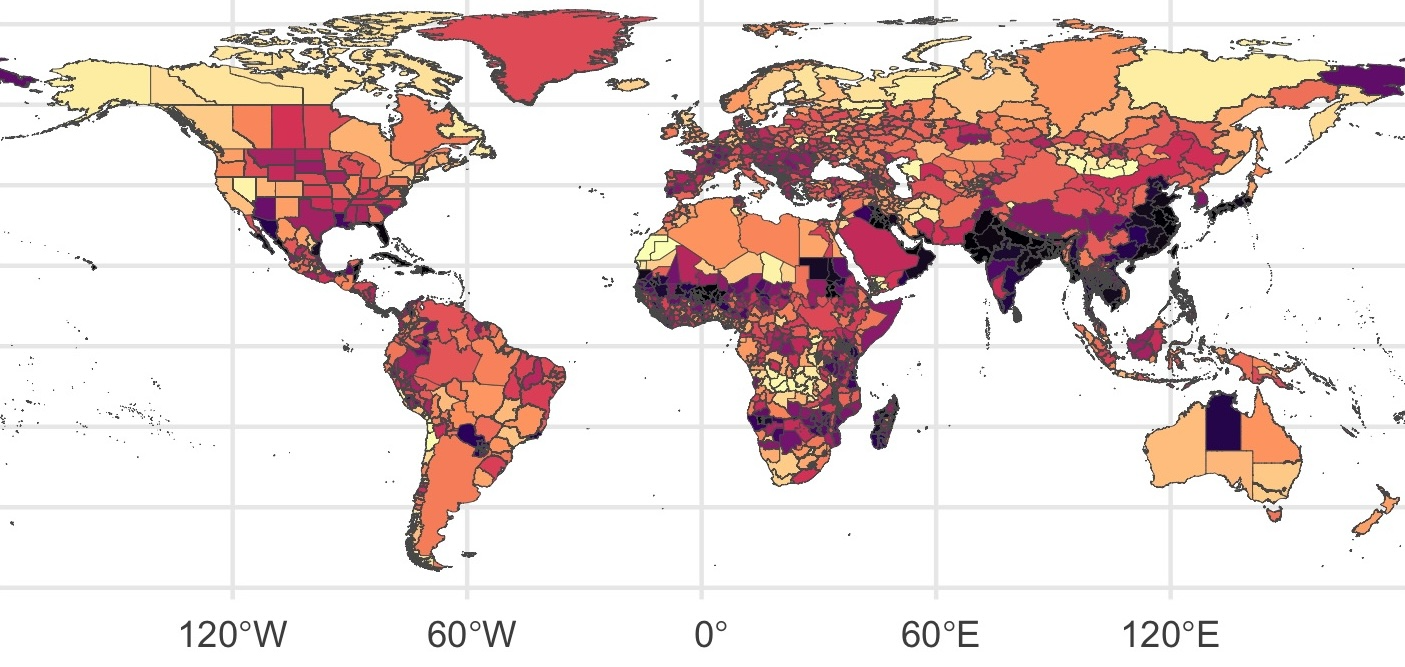
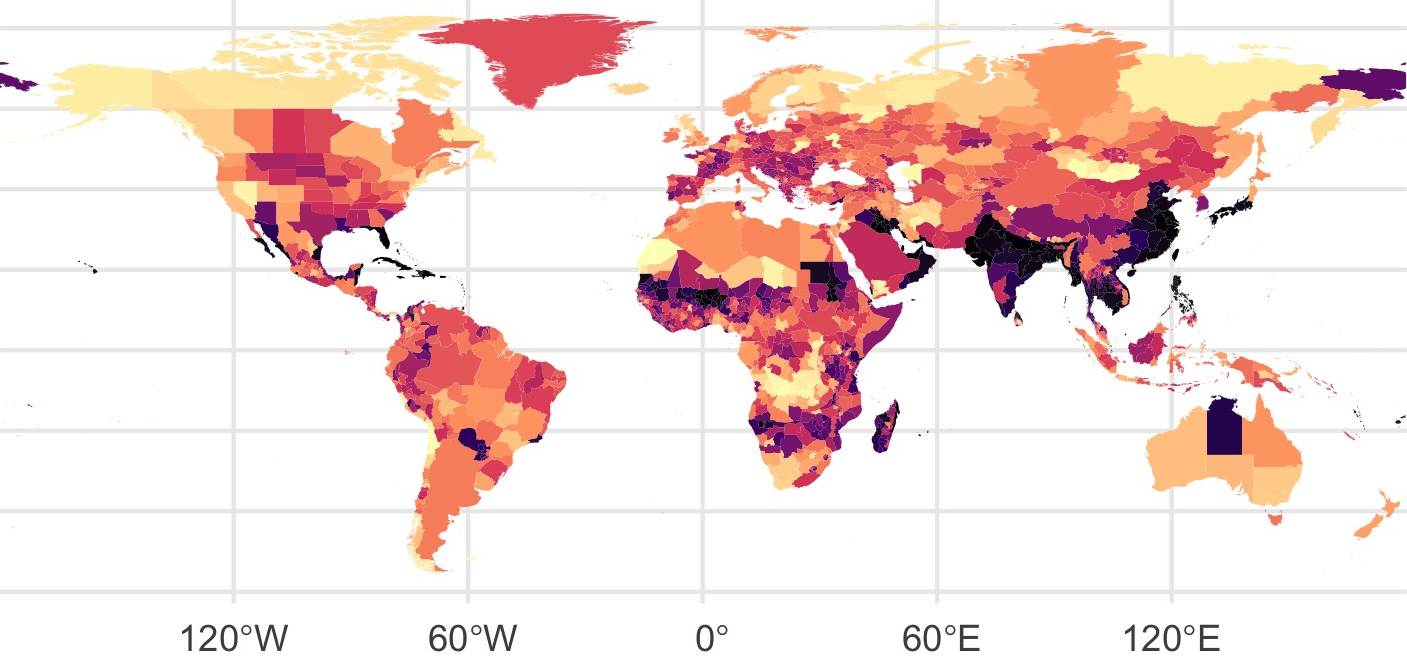
Add map

diff --git a/README.md b/README.md
@@ -2,7 +2,7 @@
 
 This site describes the methodology implemented by the World Bank to calculate the percentage of people at high risk from climate-related hazards for the [WBG Scorecard Vision Indicator](https://scorecard.worldbank.org/en/scorecard/our-vision#planet). 
 
-**MAP HERE?**
+![Exposure to climate_related hazards](docs/images/RP100_exp_any_pct.png)
 
 ## Overview
 People at high risk from climate-related hazards are defined as those exposed to any hazard and vulnerable on any dimension, using a set of agreed thresholds.
